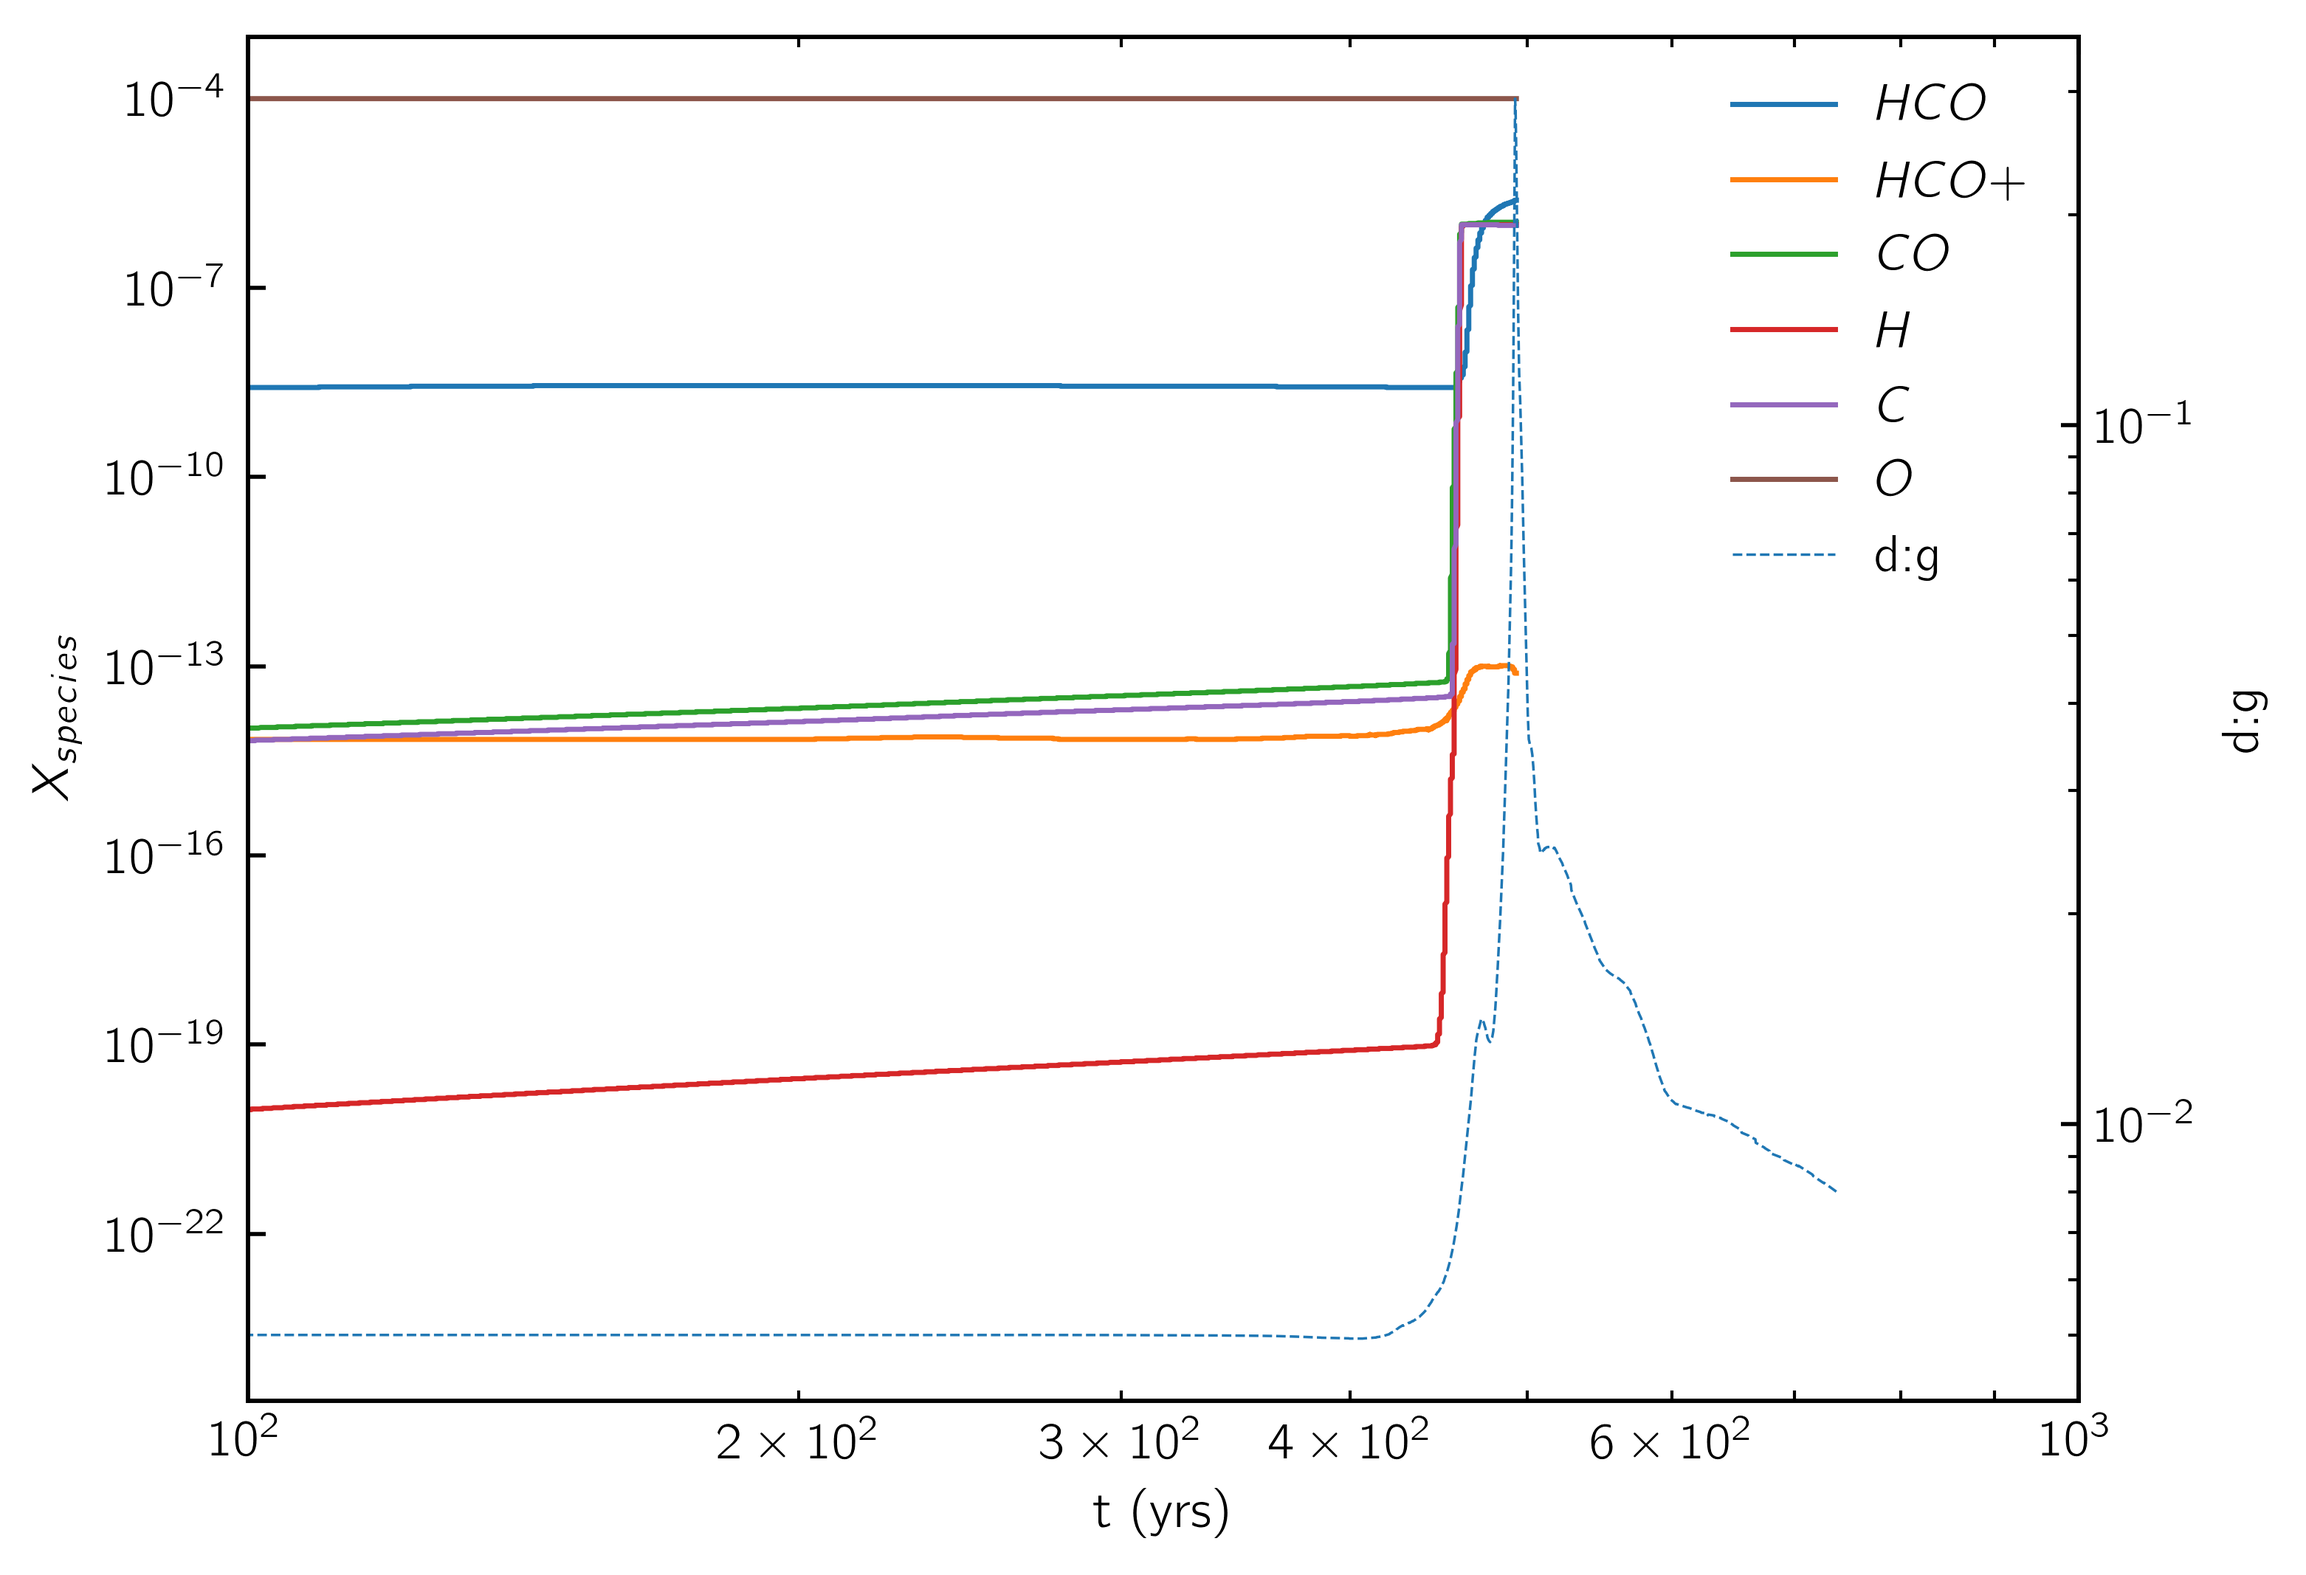
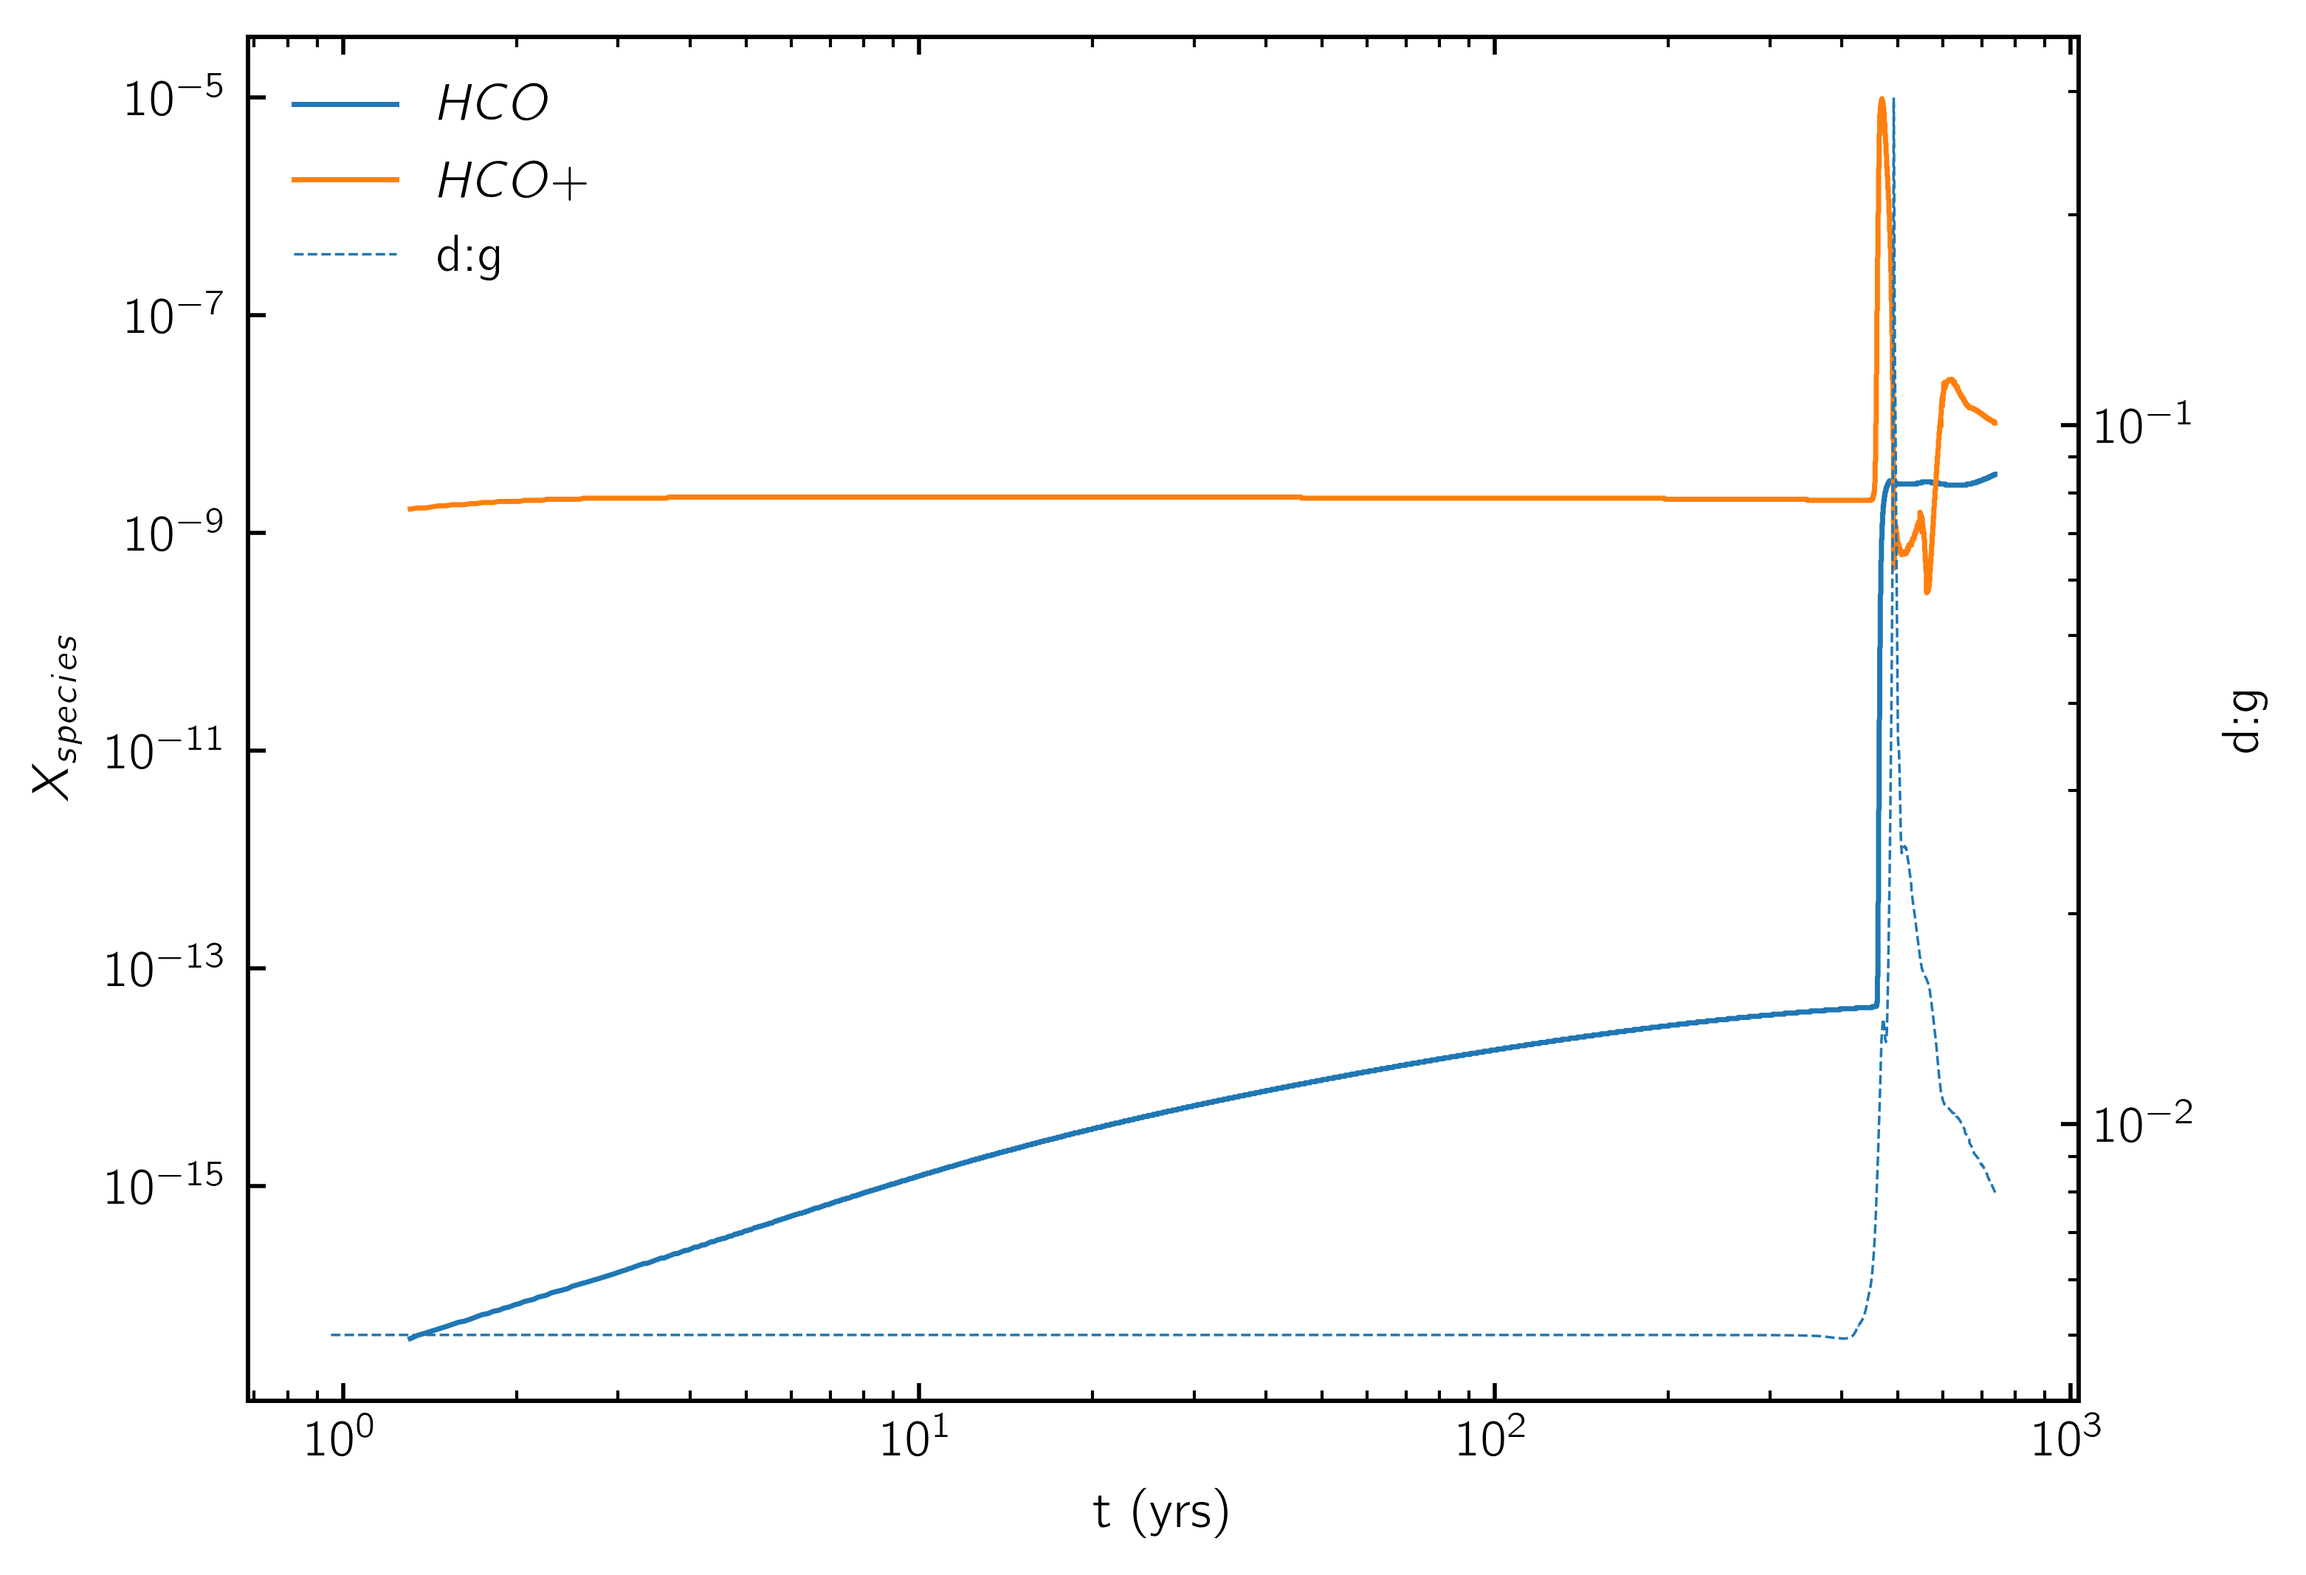
Plots improved, but still large enhancement in HCO - continue to investigate source

diff --git a/abundance-plot.py b/abundance-plot.py
@@ -18,25 +18,23 @@ dg_file = np.loadtxt('data/dg.xq',skiprows=3)
 dg = dg_file[:,1]
 # species = wardle_output[0:, 1:]
 
-H = wardle_output[:, 1]
-HCO = wardle_output[:, 2]
-HCOp = wardle_output[:,3]
-CO = wardle_output[:, 4]
+HCO = wardle_output[:, 1]
+HCOp = wardle_output[:,2]
+CO = wardle_output[:, 3]
+H = wardle_output[:,4]
 C = wardle_output[:, 5]
 O = wardle_output[:, 6]
-H2 = wardle_output[:, 7]
-HCN = wardle_output[0:, 8]
 
 fig,ax=plt.subplots()
 
 #ax.loglog(10**time, 10**HNCO, label=r"$HNCO$",linewidth=1.0)
 ax.loglog(10**time, 10**HCO, label=r"$HCO$",linewidth=1.0)
 ax.loglog(10**time, 10**HCOp, label=r"$HCO+$",linewidth=1.0)
-ax.loglog(10**time, 10**CO, label=r"$CO$",linewidth=1.0)
+#ax.loglog(10**time, 10**CO, label=r"$CO$",linewidth=1.0)
 #ax.loglog(10**time, 10**HNC, label=r"$HNC$",linewidth=1.0)
-ax.loglog(10**time, 10**H, label=r"$H$",linewidth=1.0)
-ax.loglog(10**time, 10**C, label=r"$C$",linewidth=1.0)
-ax.loglog(10**time, 10**O, label=r"$O$",linewidth=1.0)
+#ax.loglog(10**time, 10**H, label=r"$H$",linewidth=1.0)
+#ax.loglog(10**time, 10**C, label=r"$C$",linewidth=1.0)
+#ax.loglog(10**time, 10**O, label=r"$O$",linewidth=1.0)
 ax.set_xlabel('t (yrs)')
 ax.set_ylabel(r'$X_{species}$')
 ax2=ax.twinx()
@@ -47,7 +45,7 @@ h2, l2 = ax2.get_legend_handles_labels()
 legend = ax.legend(h1+h2, l1+l2, loc='best')
 # legend.get_frame().set_facecolor('#ffffff')
 legend.set_zorder(20)
-ax2.set_xlim([1e2,1e3])
+#ax2.set_xlim([1e2,1e3])
 plt.savefig('dgabundances.png', dpi=500,bbox_inches='tight')
 plt.close()
 
